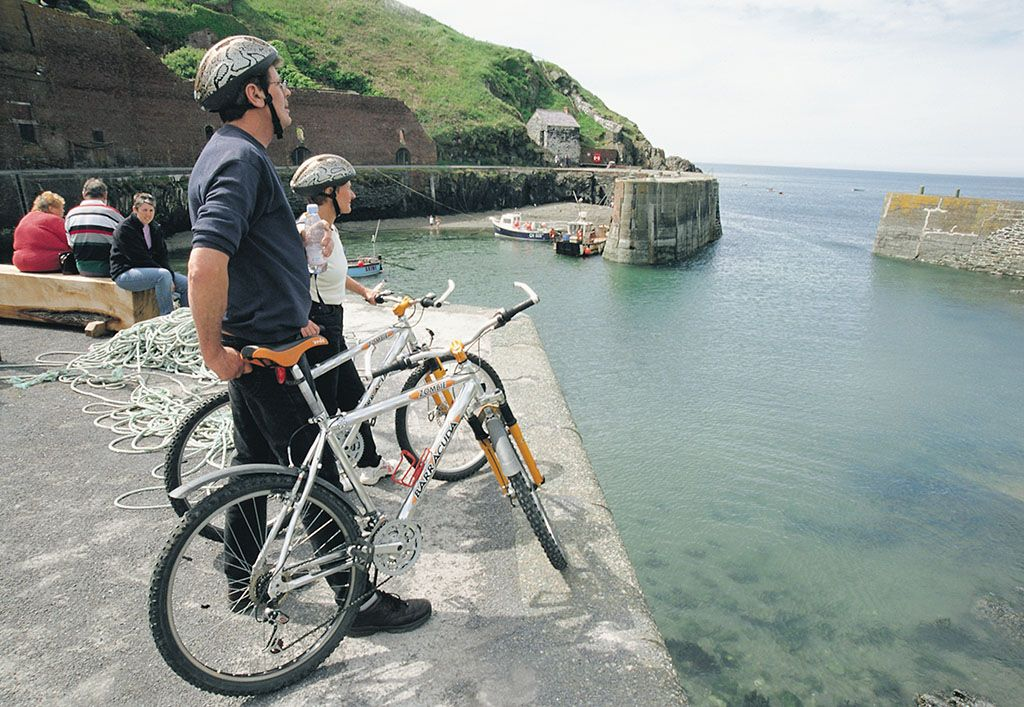
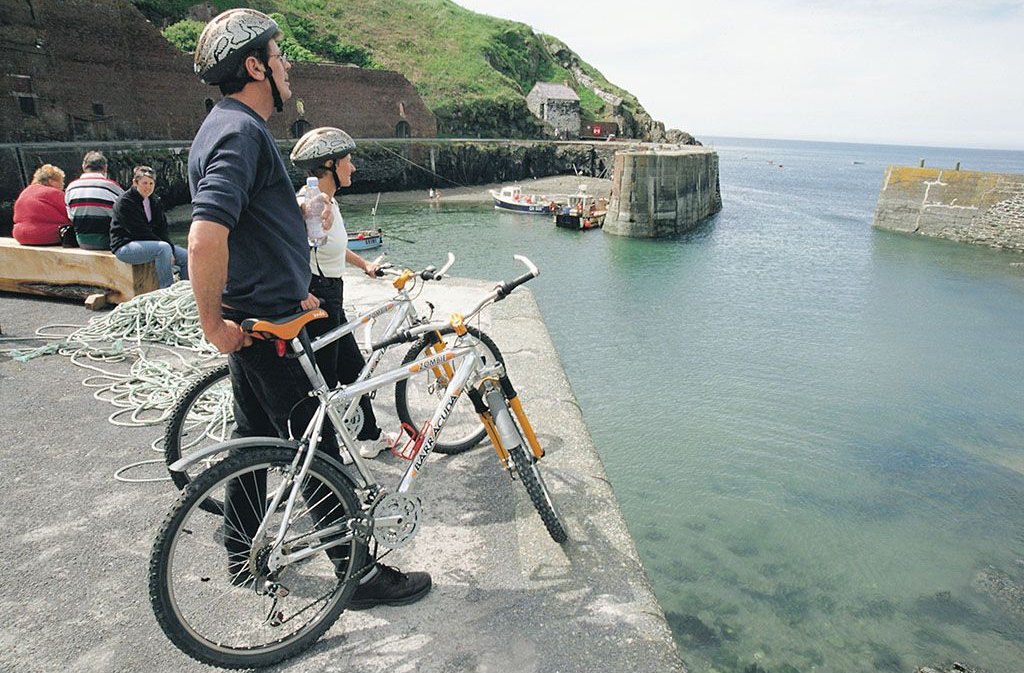
Cropped a few select images so that image pairs matched in height. I've also amended the gallery layout so that Bootstrap thumbnails are no longer used.

diff --git a/css/gwyn.css b/css/gwyn.css
@@ -83,6 +83,10 @@ p {
 	text-align:			justify;
 }
 
+.gallery-image {
+	margin-bottom: 20px;
+}
+
 .footer img {
 	height:				100px;
 }

diff --git a/things-to-do.php b/things-to-do.php
@@ -5,133 +5,104 @@
 				<strong>Unfinished business!</strong> This page needs some time and love.
 			</div>
 			<h2>Things to Do</h2>
-			<div class="row-fluid">
-				<ul id="gallery-images" class="thumbnails">
+			<div id="gallery-images" class="row-fluid">
 					<div class="row-fluid">
-						<li class="span6">
-							<div class="thumbnail">
-								<a href="assets/welsh_tourism_board/surfer_at_whitesands.jpg" title="Surfing at Whitesands Bay">
-									<img src="assets/welsh_tourism_board/surfer_at_whitesands.jpg"/>
-								</a>
-								<h3>Surfing at Whitesands Bay</h3>
-							</div>
-						</li>
-						<li class="span6">
-							<div class="thumbnail">
-								<a href="assets/welsh_tourism_board/fishguard_harbour.jpg" class="thumbnail" title="Fishguard Harbour">
-									<img src="assets/welsh_tourism_board/fishguard_harbour.jpg"/>
-								</a>
-								<h3>Fishguard Harbour</h3>
-							</div>
-						</li>
+						<div class="span6 gallery-image">
+							<a href="assets/welsh_tourism_board/surfer_at_whitesands.jpg" title="Surfing at Whitesands Bay">
+								<img src="assets/welsh_tourism_board/surfer_at_whitesands.jpg"/>
+							</a>
+							<h4>Surfing at Whitesands Bay</h4>
+						</div>
+						<div class="span6 gallery-image">
+							<a href="assets/welsh_tourism_board/walkers_on_the_pembrokeshire_coast_path.jpg" title="Walkers on the Coastal Path">
+								<img src="assets/welsh_tourism_board/walkers_on_the_pembrokeshire_coast_path.jpg"/>
+							</a>
+							<h4>Walkers on the Coastal Path</h4>
+						</div>
 					</div>
 					<div class="row-fluid">
-						<li class="span6">
-							<div class="thumbnail">
-								<a href="assets/welsh_tourism_board/children_playing_on_beach.jpg" class="thumbnail" title="Children Playing on the Beach">
-									<img src="assets/welsh_tourism_board/children_playing_on_beach.jpg"/>
-								</a>
-								<h3>Children Playing on the Beach</h3>
-							</div>
-						</li>
-						<li class="span6">
-							<div class="thumbnail">
-								<a href="assets/welsh_tourism_board/cyclists_at_porthgain.jpg" class="thumbnail" title="Cyclists at Porthgain">
-									<img src="assets/welsh_tourism_board/cyclists_at_porthgain.jpg"/>
-								</a>
-								<h3>Cyclists at Porthgain</h3>
-							</div>
-						</li>
+						<div class="span6 gallery-image">
+							<a href="assets/welsh_tourism_board/children_playing_on_beach.jpg" title="Children Playing on the Beach">
+								<img src="assets/welsh_tourism_board/children_playing_on_beach.jpg"/>
+							</a>
+							<h4>Children Playing on the Beach</h4>
+						</div>
+						<div class="span6 gallery-image">
+							<a href="assets/welsh_tourism_board/cyclists_at_porthgain.jpg" title="Cyclists at Porthgain">
+								<img src="assets/welsh_tourism_board/cyclists_at_porthgain.jpg"/>
+							</a>
+							<h4>Cyclists at Porthgain</h4>
+						</div>
 					</div>
 					<div class="row-fluid">
-						<li class="span6">
-							<div class="thumbnail">
-								<a href="assets/welsh_tourism_board/oakwood_pirate_ship.jpg" class="thumbnail" title="The Pirate Ship at Oakwood Theme Park">
-									<img src="assets/welsh_tourism_board/oakwood_pirate_ship.jpg"/>
-								</a>
-								<h3>The Pirate Ship at Oakwood Theme Park</h3>
-							</div>
-						</li>
-						<li class="span6">
-							<div class="thumbnail">
-								<a href="assets/welsh_tourism_board/whitesands_bay_sunset.jpg" class="thumbnail" title="Sunset at Whitesands Bay">
-									<img src="assets/welsh_tourism_board/whitesands_bay_sunset.jpg"/>
-								</a>
-								<h3>Sunset at Whitesands Bay</h3>
-							</div>
-						</li>
+						<div class="span6 gallery-image">
+							<a href="assets/welsh_tourism_board/oakwood_pirate_ship.jpg" title="The Pirate Ship at Oakwood Theme Park">
+								<img src="assets/welsh_tourism_board/oakwood_pirate_ship.jpg"/>
+							</a>
+							<h4>Pirate Ship at Oakwood Theme Park</h4>
+						</div>
+						<div class="span6 gallery-image">
+							<a href="assets/welsh_tourism_board/oakwood_drenched.jpg" title="Drenched at Oakwood Theme Park">
+								<img src="assets/welsh_tourism_board/oakwood_drenched.jpg"/>
+							</a>
+							<h4>Drenched at Oakwood Theme Park</h4>
+						</div>
 					</div>
 					<div class="row-fluid">
-						<li class="span6">
-							<div class="thumbnail">
-								<a href="assets/welsh_tourism_board/oakwood_drenched.jpg" class="thumbnail" title="Drenched at Oakwood Theme Park">
-									<img src="assets/welsh_tourism_board/oakwood_drenched.jpg"/>
-								</a>
-								<h3>Drenched at Oakwood Theme Park</h3>
-							</div>
-						</li>
-						<li class="span6">
-							<div class="thumbnail">
-								<a href="assets/welsh_tourism_board/golfing_pembrokeshire.jpg" class="thumbnail" title="Golfing in Pembrokeshire">
-									<img src="assets/welsh_tourism_board/golfing_pembrokeshire.jpg"/>
-								</a>
-								<h3>Golfing in Pembrokeshire</h3>
-							</div>
-						</li>
+						<div class="span6 gallery-image">
+							<a href="assets/welsh_tourism_board/whitesands_bay_sunset.jpg" title="Sunset at Whitesands Bay">
+								<img src="assets/welsh_tourism_board/whitesands_bay_sunset.jpg"/>
+							</a>
+							<h4>Sunset at Whitesands Bay</h4>
+						</div>
+						<div class="span6 gallery-image">
+							<a href="assets/welsh_tourism_board/golfing_pembrokeshire.jpg" title="Golfing in Pembrokeshire">
+								<img src="assets/welsh_tourism_board/golfing_pembrokeshire.jpg"/>
+							</a>
+							<h4>Golfing in Pembrokeshire</h4>
+						</div>
 					</div>
 					<div class="row-fluid">
-						<li class="span6">
-							<div class="thumbnail">
-								<a href="assets/welsh_tourism_board/walkers_on_the_pembrokeshire_coast_path.jpg" class="thumbnail" title="Walkers on the Coastal Path">
-									<img src="assets/welsh_tourism_board/walkers_on_the_pembrokeshire_coast_path.jpg"/>
-								</a>
-								<h3>Walkers on the Coastal Path</h3>
-							</div>
-						</li>
-						<li class="span6">
-							<div class="thumbnail">
-								<a href="assets/welsh_tourism_board/coasteering_blue_lagoon.jpg" class="thumbnail" title="Coasteerers off to the Blue Lagoon">
-									<img src="assets/welsh_tourism_board/coasteering_blue_lagoon.jpg"/>
-								</a>
-								<h3>Coasteerers off to the Blue Lagoon</h3>
-							</div>
-						</li>
+						<div class="span6 gallery-image">
+							<a href="assets/welsh_tourism_board/strumble_head_lighthouse.jpg" title="Strumble Head Lighthouse">
+								<img src="assets/welsh_tourism_board/strumble_head_lighthouse.jpg"/>
+							</a>
+							<h4>Strumble Head Lighthouse</h4>
+						</div>
+						<div class="span6 gallery-image">
+							<a href="assets/welsh_tourism_board/coasteering_blue_lagoon.jpg" title="Coasteerers off to the Blue Lagoon">
+								<img src="assets/welsh_tourism_board/coasteering_blue_lagoon.jpg"/>
+							</a>
+							<h4>Coasteerers off to the Blue Lagoon</h4>
+						</div>
 					</div>
 					<div class="row-fluid">
-						<li class="span6">
-							<div class="thumbnail">
-								<a href="assets/welsh_tourism_board/st_davids_cathedral.jpg" class="thumbnail" title="St David's Cathedral">
-									<img src="assets/welsh_tourism_board/st_davids_cathedral.jpg"/>
-								</a>
-								<h3>St David's Cathedral</h3>
-							</div>
-						</li>
-						<li class="span6">
-							<div class="thumbnail">
-								<a href="assets/welsh_tourism_board/whitesands_bay.jpg" class="thumbnail" title="Whitesands Bay">
-									<img src="assets/welsh_tourism_board/whitesands_bay.jpg"/>
-								</a>
-								<h3>Whitesands Bay</h3>
-							</div>
-						</li>
+						<div class="span6 gallery-image">
+							<a href="assets/welsh_tourism_board/st_davids_cathedral.jpg" title="St David's Cathedral">
+								<img src="assets/welsh_tourism_board/st_davids_cathedral.jpg"/>
+							</a>
+							<h4>St David's Cathedral</h4>
+						</div>
+						<div class="span6 gallery-image">
+							<a href="assets/welsh_tourism_board/whitesands_bay.jpg" title="Whitesands Bay">
+								<img src="assets/welsh_tourism_board/whitesands_bay.jpg"/>
+							</a>
+							<h4>Whitesands Bay</h4>
+						</div>
 					</div>
 					<div class="row-fluid">
-						<li class="span6">
-							<div class="thumbnail">
-								<a href="assets/welsh_tourism_board/strumble_head_lighthouse.jpg" class="thumbnail" title="Strumble Head Lighthouse">
-									<img src="assets/welsh_tourism_board/strumble_head_lighthouse.jpg"/>
-								</a>
-								<h3>Strumble Head Lighthouse</h3>
-							</div>
-						</li>
-						<li class="span6">
-							<div class="thumbnail">
-								<a href="assets/welsh_tourism_board/blue_lagoon_abereiddy.jpg" class="thumbnail" title="The Blue Lagoon at Abereiddy">
-									<img src="assets/welsh_tourism_board/blue_lagoon_abereiddy.jpg"/>
-								</a>
-								<h3>The Blue Lagoon at Abereiddy</h3>
-							</div>
-						</li>
+						<div class="span6 gallery-image">
+							<a href="assets/welsh_tourism_board/fishguard_harbour.jpg" title="Fishguard Harbour">
+								<img src="assets/welsh_tourism_board/fishguard_harbour.jpg"/>
+							</a>
+							<h4>Fishguard Harbour</h4>
+						</div>
+						<div class="span6 gallery-image">
+							<a href="assets/welsh_tourism_board/blue_lagoon_abereiddy.jpg" title="The Blue Lagoon at Abereiddy">
+								<img src="assets/welsh_tourism_board/blue_lagoon_abereiddy.jpg"/>
+							</a>
+							<h4>The Blue Lagoon at Abereiddy</h4>
+						</div>
 					</div>
 				</ul>
 			</div>
